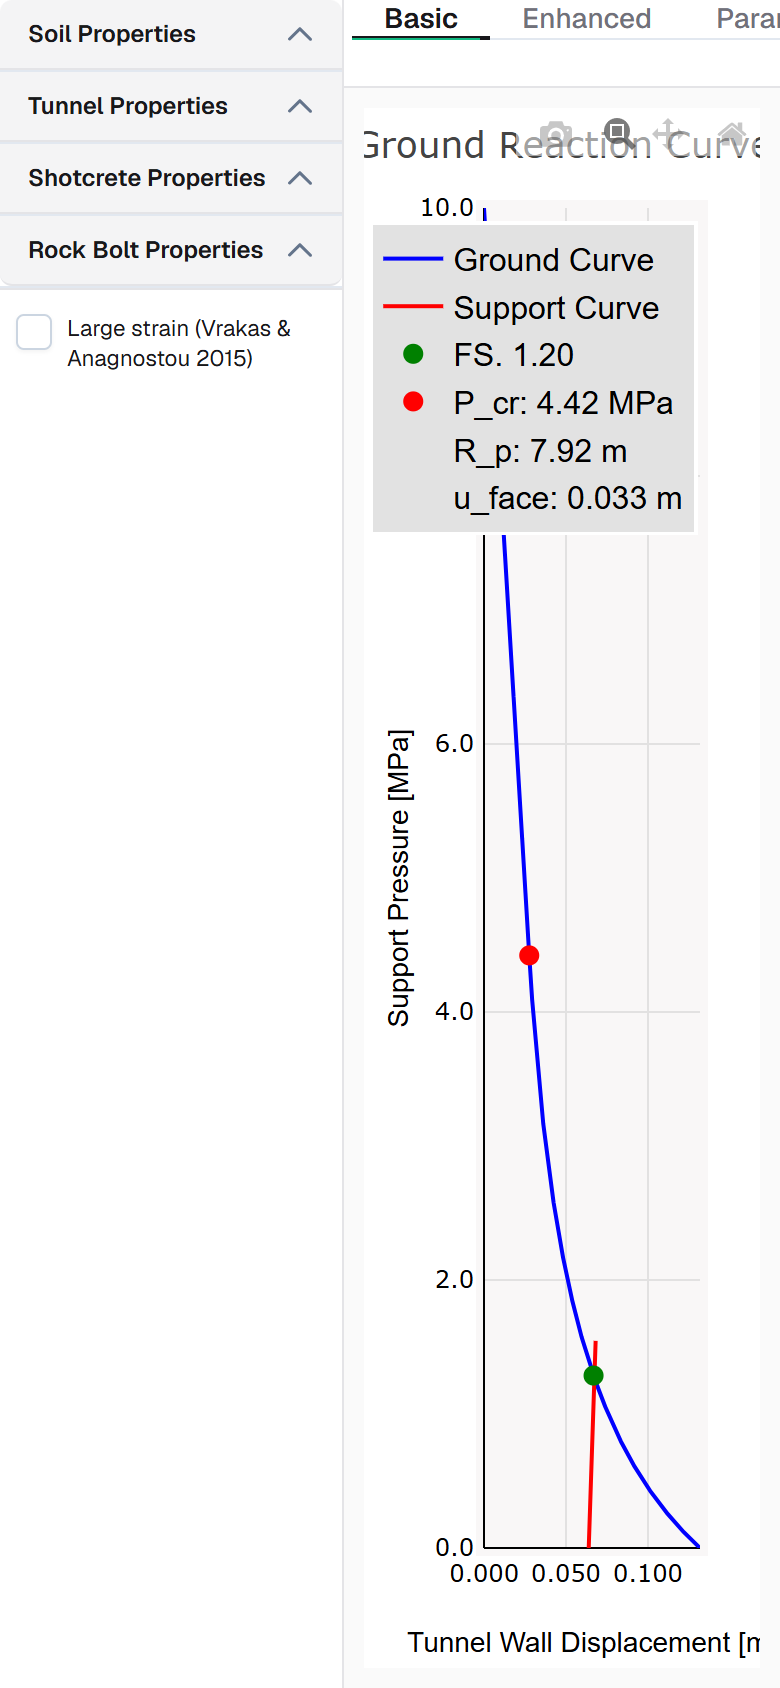
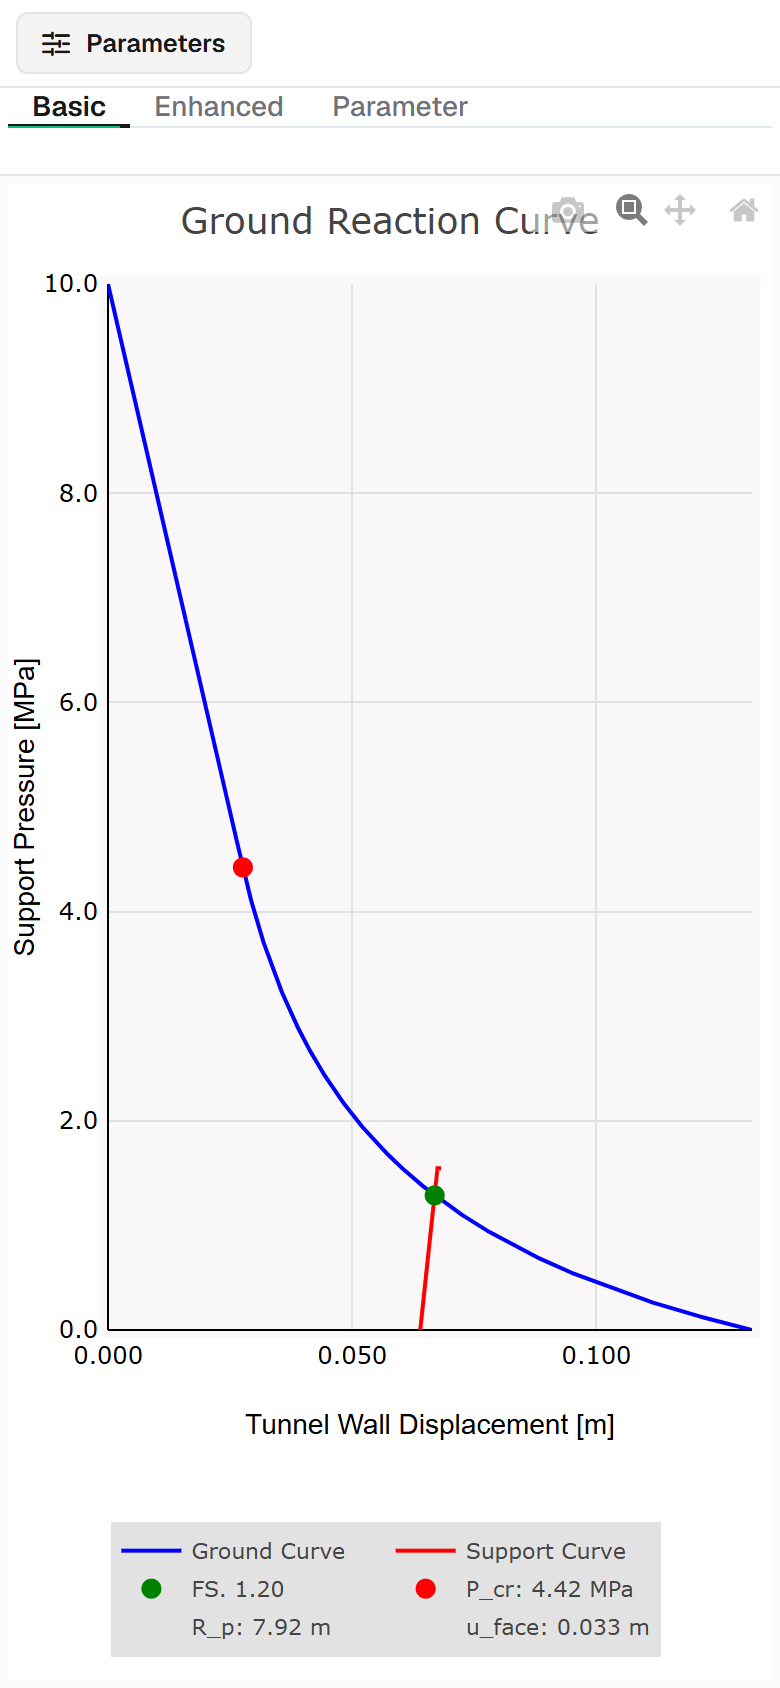
Add phone layout (<= 768 px)
- Parameter sidebar becomes a drawer behind a 'Parameters' button (closed
  by default, closes on backdrop tap)
- Charts use the full width, Plotly legend horizontal below the chart
- Tabs fit without clipping; desktop layout unchanged (pixel-identical
  screenshots at 1400 px)
- New 390 px screenshots in docs/screenshots/web/

diff --git a/src/App.vue b/src/App.vue
@@ -1,7 +1,18 @@
 <template>
   <div class="app-layout">
 
-    <ParameterPanel :params="params" v-model:largeStrain="showLargeStrain" @change="recalculate" />
+    <!-- Phone only (≤ 768 px): bar with toggle for the parameter sidebar -->
+    <div class="mobile-bar">
+      <button type="button" class="mobile-bar-toggle" :aria-expanded="sidebarOpen"
+        aria-controls="parameter-sidebar" @click="sidebarOpen = !sidebarOpen">
+        <i :class="sidebarOpen ? 'pi pi-times' : 'pi pi-sliders-h'" aria-hidden="true"></i>
+        <span>Parameters</span>
+      </button>
+    </div>
+    <div v-if="isMobile && sidebarOpen" class="sidebar-backdrop" @click="sidebarOpen = false"></div>
+
+    <ParameterPanel id="parameter-sidebar" :class="{ 'sidebar--open': sidebarOpen }"
+      :params="params" v-model:largeStrain="showLargeStrain" @change="recalculate" />
 
     <div class="chart-area">
       <Tabs value="basic" class="chart-tabs" @update:value="onTabChange">
@@ -47,7 +58,7 @@
 </template>
 
 <script setup>
-import { ref, reactive, computed, watch, onMounted, nextTick } from 'vue'
+import { ref, reactive, computed, watch, onMounted, onBeforeUnmount, nextTick } from 'vue'
 import Plotly from 'plotly.js-cartesian-dist'
 import Tabs from 'primevue/tabs'
 import TabList from 'primevue/tablist'
@@ -118,6 +129,17 @@ const paramEntries = computed(() => Object.entries(params))
 // Display only: overlay the large-strain ground curve (Vrakas & Anagnostou 2015)
 const showLargeStrain = ref(false)
 
+// ── Phone layout (≤ 768 px): collapsible sidebar, legend below the chart ─────
+const mobileQuery = window.matchMedia('(max-width: 768px)')
+const isMobile = ref(mobileQuery.matches)
+const sidebarOpen = ref(false)
+function onMediaChange(e) {
+  isMobile.value = e.matches
+  if (!e.matches) sidebarOpen.value = false
+}
+mobileQuery.addEventListener('change', onMediaChange)
+onBeforeUnmount(() => mobileQuery.removeEventListener('change', onMediaChange))
+
 // ── Recalculate and render ───────────────────────────────────────────────────
 function recalculate() {
   const p = params
@@ -126,12 +148,12 @@ function recalculate() {
     p.f_ck, p.E_c, p.nu_c, p.t_c,
     p.dis_sup, p.advance_rate,
     p.t_bf, p.s_l, p.s_r, p.d_b, p.l_b, p.l_yield,
-    { showLargeStrain: showLargeStrain.value }
+    { showLargeStrain: showLargeStrain.value, legendBelow: isMobile.value }
   )
 }
 
 onMounted(() => nextTick(() => recalculate()))
-watch(showLargeStrain, recalculate)
+watch([showLargeStrain, isMobile], recalculate)
 
 // ── Resize chart when switching to a tab that was hidden ─────────────────────
 function onTabChange(tabValue) {

diff --git a/src/style.css b/src/style.css
@@ -199,6 +199,82 @@ html, body, #app {
     font-size: 0.78rem;
 }
 
+/* ── Phone layout (≤ 768 px) ─────────────────────────────────────────────── */
+.mobile-bar,
+.sidebar-backdrop {
+    display: none;
+}
+
+@media (max-width: 768px) {
+    :root {
+        --mobilebar-h: 44px;
+    }
+
+    .app-layout {
+        flex-direction: column;
+    }
+
+    .mobile-bar {
+        display: flex;
+        align-items: center;
+        flex-shrink: 0;
+        height: var(--mobilebar-h);
+        padding: 0 8px;
+        background: var(--color-sidebar);
+        border-bottom: 1px solid var(--color-border);
+    }
+
+    .mobile-bar-toggle {
+        display: inline-flex;
+        align-items: center;
+        gap: 8px;
+        padding: 6px 12px;
+        font: inherit;
+        font-size: 0.9rem;
+        font-weight: 600;
+        color: var(--color-text);
+        background: var(--color-hover);
+        border: 1px solid var(--color-border);
+        border-radius: 6px;
+        cursor: pointer;
+    }
+
+    /* Sidebar becomes a drawer over the chart, closed by default */
+    .sidebar {
+        position: fixed;
+        top: var(--mobilebar-h);
+        bottom: 0;
+        left: 0;
+        z-index: 20;
+        width: min(320px, 88vw);
+        min-width: 0;
+        transform: translateX(-100%);
+        transition: transform 0.2s ease;
+    }
+
+    .sidebar.sidebar--open {
+        transform: none;
+        box-shadow: 2px 0 12px rgba(0, 0, 0, 0.15);
+    }
+
+    .sidebar-backdrop {
+        display: block;
+        position: fixed;
+        inset: var(--mobilebar-h) 0 0 0;
+        z-index: 15;
+        background: rgba(0, 0, 0, 0.25);
+    }
+
+    .chart-tab-content {
+        height: calc(100vh - var(--tabbar-h) - var(--mobilebar-h));
+        padding: 4px;
+    }
+
+    .chart-tabs .p-tab {
+        padding: 0 12px !important;
+    }
+}
+
 /* ─────────────────────────────────────────────────────────────────────────── */
 /* PrimeVue component overrides (neutral / shadcn-style)                       */
 /* ─────────────────────────────────────────────────────────────────────────── */

diff --git a/src/physics/groundCurveCalc.js b/src/physics/groundCurveCalc.js
@@ -340,6 +340,7 @@ export function groundCurve(gamma, H, nu, E, D, c, phi, f_ck, E_c, nu_c, t_c,
 
 // options.showLargeStrain: also plot the large-strain ground curve. Display only — equilibrium,
 // FS and LDP always use the small-strain solution.
+// options.legendBelow: horizontal legend under the chart (phone layout).
 export function updateGraphic(gamma, H, nu, E, D, c, phi, f_ck, E_c, nu_c, t_c,
     dis_sup, advance_rate, t_bf, s_l, s_r, d_b, l_b, l_yield, options = {}) {
 
@@ -491,6 +492,14 @@ export function updateGraphic(gamma, H, nu, E, D, c, phi, f_ck, E_c, nu_c, t_c,
         xaxis: { rangemode: 'nonnegative', title: { text: 'Tunnel Wall Displacement [m]', font: { family: 'Arial, sans-serif', size: 14 } }, color: 'black', range: [0, maxX], tickformat: '.3f' },
         yaxis: { scaleratio: 0.4, tickformat: '.1f', title: { text: 'Support Pressure [MPa]', font: { family: 'Arial, sans-serif', size: 14 } }, color: 'black', range: [0, maxY], rangemode: 'nonnegative' },
         legend: { traceorder: 'normal', font: { family: 'Arial, sans-serif', size: 16, color: '#000' }, bgcolor: '#E2E2E2', bordercolor: '#FFFFFF', borderwidth: 1.7, x: 0.99, xanchor: 'right', y: 0.99 }
+    }
+
+    if (options.legendBelow) {
+        const below = { orientation: 'h', x: 0, xanchor: 'left', y: -0.12, yanchor: 'top', font: { size: 11 } }
+        Object.assign(layout.legend, below)
+        Object.assign(layoutBasic.legend, below, { y: -0.18 })
+        layout.margin = { ...layout.margin, l: 50, r: 10 }
+        layoutBasic.margin = { ...layoutBasic.margin, l: 50, r: 10 }
     }
 
     Plotly.newPlot('graph', data, layout, { displayModeBar: true, displaylogo: false, responsive: true, modeBarButtonsToRemove: ['select2d', 'lasso2d', 'zoomIn2d', 'zoomOut2d', 'autoScale2d'] })
